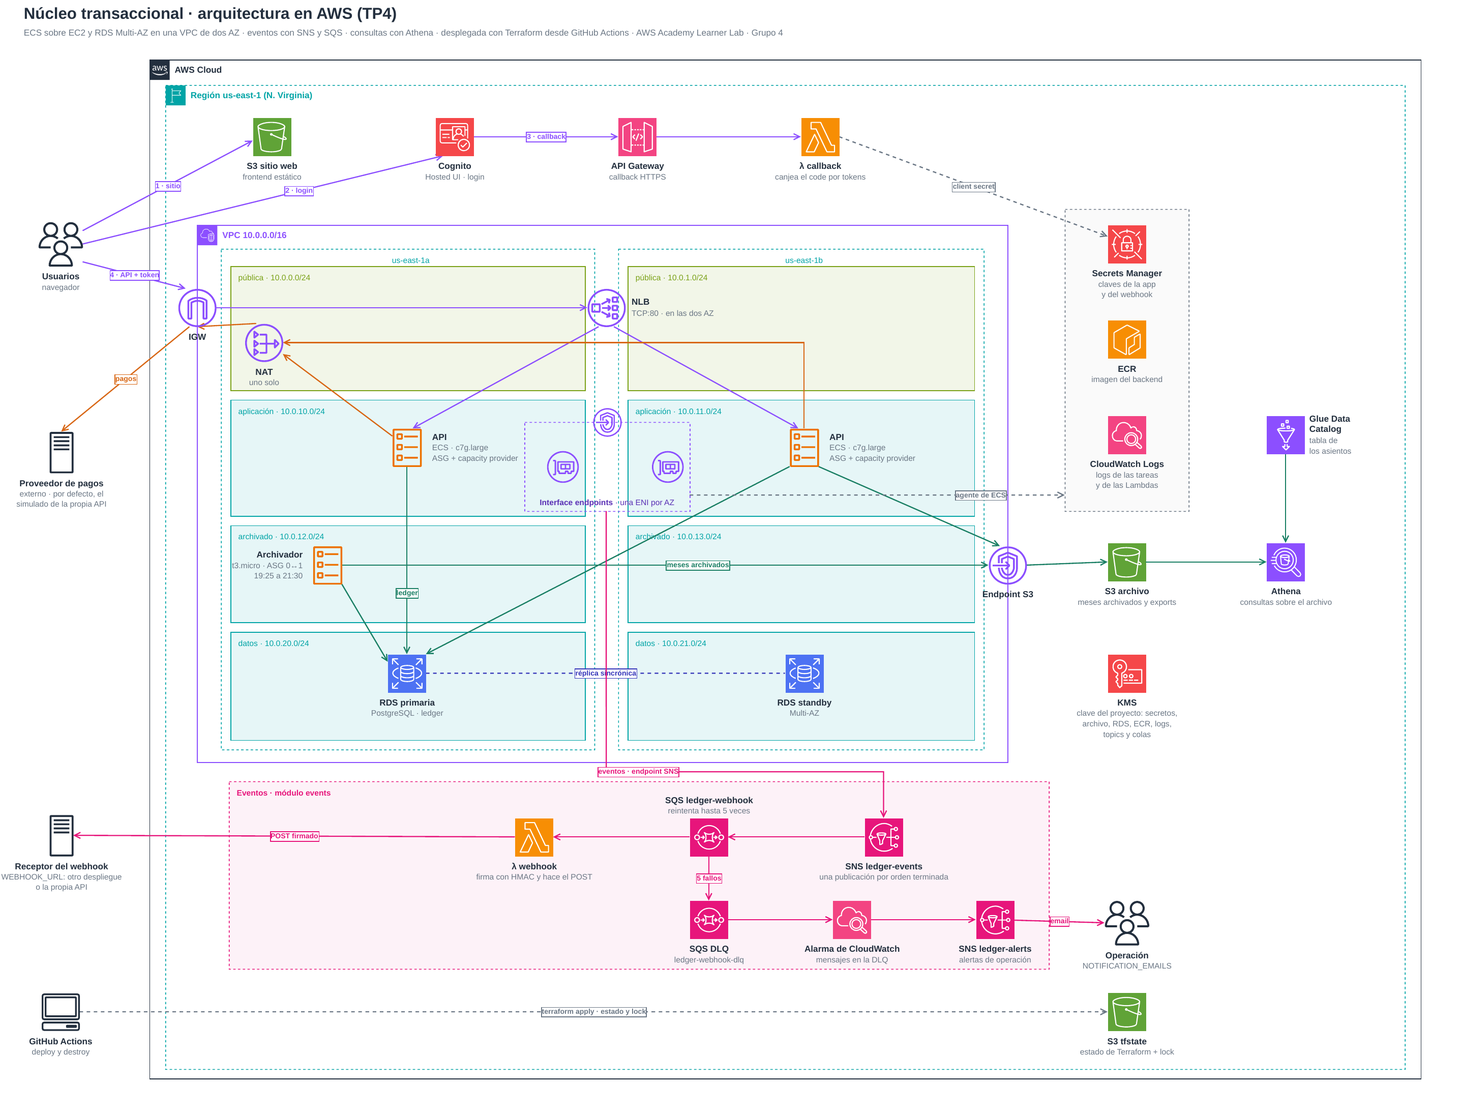
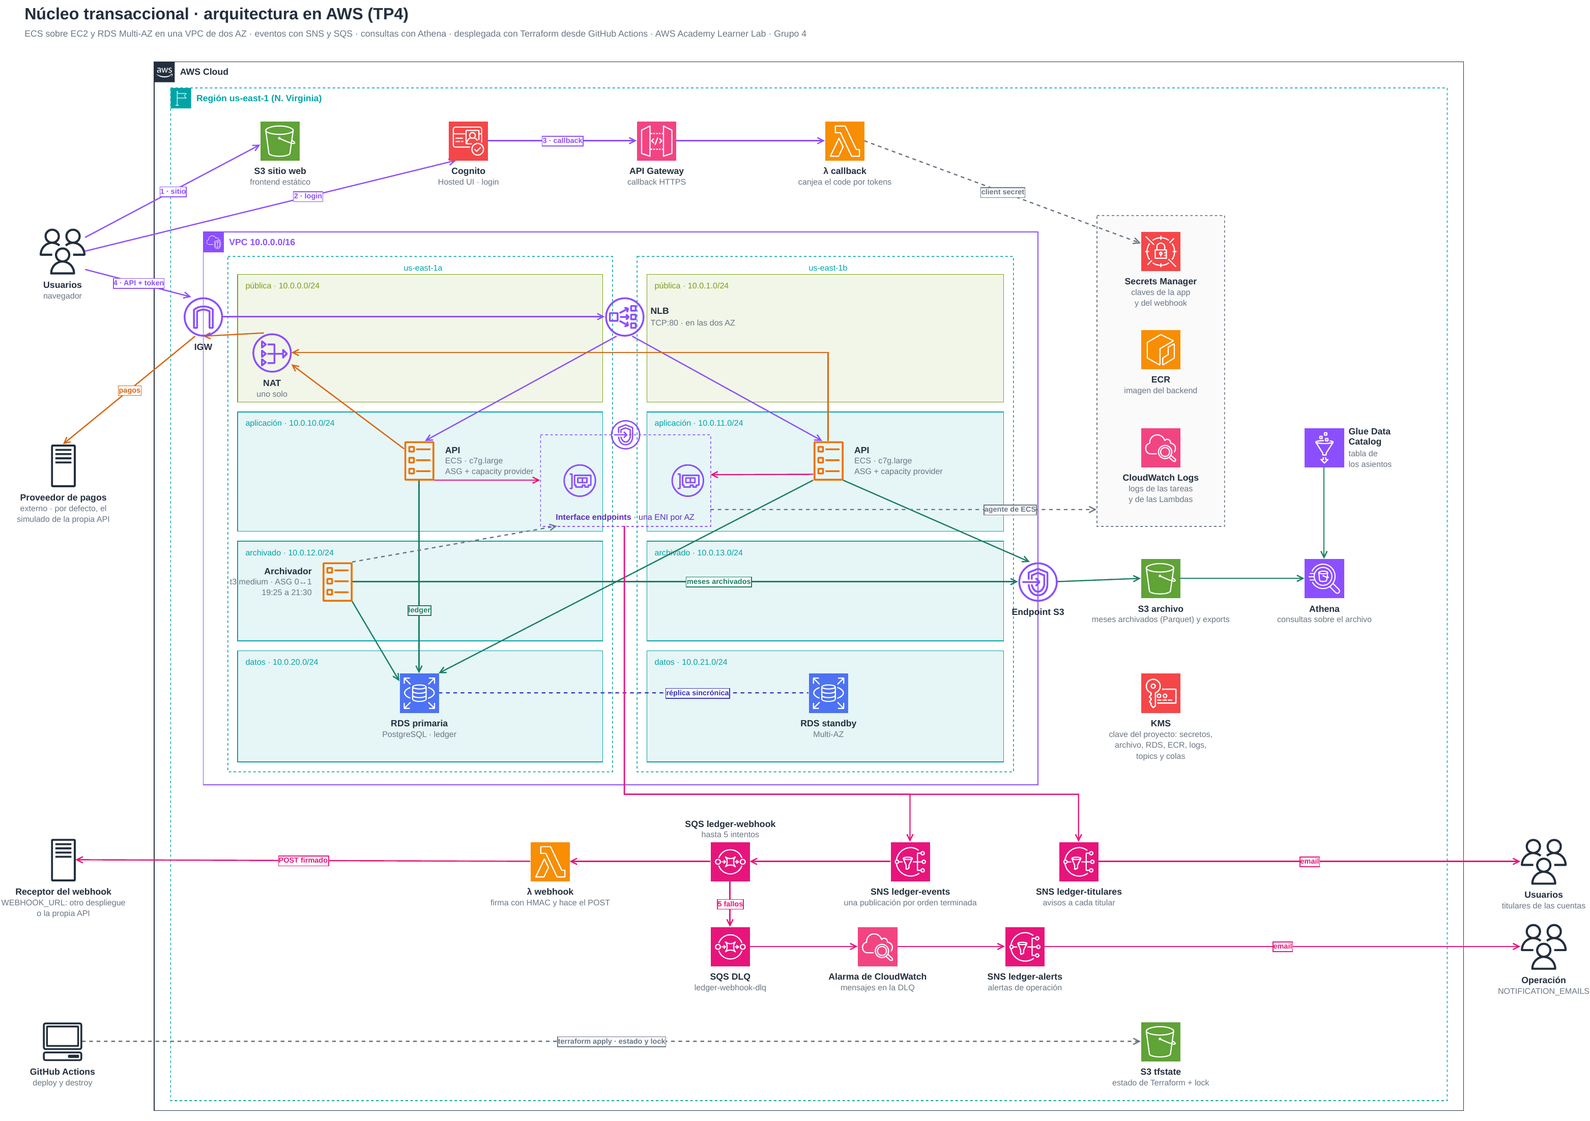
docs: archivo en Parquet, exportaciones y avisos a titulares en el README, ARCHITECTURE y el diagrama

diff --git a/ARCHITECTURE.md b/ARCHITECTURE.md
@@ -22,7 +22,7 @@ Restricciones que guían el diseño:
   GitHub Actions, en cualquier cuenta, sin editar nada. Los nombres que tienen que ser únicos
   llevan el ID de la cuenta.
 - **Costo acotado**: un solo NAT, la API en Graviton (más barato que x86 a igual tamaño) y el
-  archivador en una `t3.micro`, apagada fuera de su ventana.
+  archivador en una `t3.medium`, apagada fuera de su ventana.
 
 ## 2. Red
 
@@ -107,14 +107,15 @@ propio ASG, en sus propias subredes:
 |---|---|---|
 | Subredes (instancias y tareas) | `app`, con NAT | `archive`, sin ruta a Internet |
 | Tareas | 2 a 5, escalan por CPU (60 %) | 0, y 1 durante la ventana de archivado |
-| Tipo de instancia | `c7g.large` (Graviton), dos tareas por instancia | `t3.micro`, una tarea |
+| Tipo de instancia | `c7g.large` (Graviton), dos tareas por instancia | `t3.medium`, una tarea |
 | Instancias | Las que hagan falta para esas tareas, con lugar libre | 0 fuera de la ventana |
 | Tráfico | NLB → IP de cada tarea | Ninguno: sólo sale a la base y a S3 |
 
 Hay **dos niveles de escalado**: el servicio decide cuántas tareas quiere (por CPU o por
 horario) y el capacity provider agrega o apaga instancias para alojarlas. Con red `awsvpc`
 cada tarea tiene su propia ENI y su security group, y la instancia se queda una para ella: una
-`c7g.large` (3 ENIs) aloja dos tareas y una `t3.micro` (2 ENIs), una sola.
+`c7g.large` (3 ENIs) aloja dos tareas, y la `t3.medium` del archivador, una sola: la tarea pide
+3 GB de los 4 que tiene.
 
 El capacity provider de la API apunta a tener ocupado el 80 % de las instancias
 (`target_capacity`), para dejar lugar de reserva: la primera tarea nueva de un scale-out o de un
@@ -135,7 +136,9 @@ recomendada, pero sólo la usan las instancias nuevas.
 corre en `c7g.large`: no es burstable, así que su CPU no depende de créditos; Graviton cuesta
 menos que x86 a igual tamaño, y sus 2 vCPU coinciden con las dos tareas de 1 vCPU que le
 permiten sus ENIs. El archivador es un batch de una tarea, unas horas por día, que nadie
-espera: alcanza una `t3.micro`, cuya CPU en ráfaga cubre justo esa ventana. En una cuenta
+espera, así que va en una instancia burstable: su CPU en ráfaga cubre esa ventana. Es una
+`t3.medium` por la memoria: escribe varias partes de Parquet en paralelo y cada una arma un
+bloque en memoria antes de subirlo (ver [Datos](#4-datos)). En una cuenta
 propia iría en **Spot**, que AWS Academy no habilita. El archivado se puede retomar: cada
 período es una fila de `tareas` que se toma con `FOR UPDATE SKIP LOCKED` y, si la instancia se
 interrumpe, se reintenta, así que una interrupción sólo lo atrasa. Se configuraría con un ASG
@@ -184,7 +187,7 @@ toma la recomendada en cada apply, pero sólo la usan las instancias nuevas. No 
 Un deploy con cambios en el backend sube una imagen nueva y crea una revisión de cada task
 definition. ECS reemplaza las tareas de a tandas: nunca baja de la mitad de las deseadas ni pasa
 del doble. El ASG admite una instancia más que el máximo de tareas, y eso alcanza para ese doble
-en los dos servicios: 6 `c7g.large` alojan 12 tareas de la API y 2 `t3.micro`, dos del
+en los dos servicios: 6 `c7g.large` alojan 12 tareas de la API y 2 `t3.medium`, dos del
 archivador. Por eso la API llega a 5 tareas y no más: su ASG queda en 6, el máximo que AWS
 Academy deja poner en un ASG. Una
 tarea nueva de la API recibe tráfico recién cuando pasa el health check del NLB, y si las
@@ -237,11 +240,57 @@ reintentos.
   derivado y muestra si coinciden.
 
 **Archivado.** El archivador toma un período de la tabla `tareas` (`FOR UPDATE SKIP LOCKED`),
-hace `DETACH PARTITION` de ese mes, lo sube a S3 como
-`transaction-history/periodo=AAAA-MM/asientos.ndjson.gz` (un prefijo estilo Hive, que se
-consulta con Athena) y borra la partición. No hay un `DELETE` masivo que genere WAL ni compita
-por bloqueos con la liquidación. El extracto de un mes archivado lo arma la API leyendo ese
-objeto.
+hace `DETACH PARTITION` de ese mes, lo sube a S3 y borra la partición. No hay un `DELETE` masivo
+que genere WAL ni compita por bloqueos con la liquidación.
+
+El mes se guarda en **Parquet**, partido por rangos de cuentas, bajo un prefijo estilo Hive que
+se consulta con Athena:
+
+```
+transaction-history/periodo=2025-06/parte-000.parquet   cuentas 1 – 41.200
+transaction-history/periodo=2025-06/parte-001.parquet   cuentas 41.201 – 83.950
+```
+
+- **Partes.** El archivador cuenta las filas de cada cuenta y las agrupa hasta
+  `archive_rows_per_part` (5 millones por defecto). Una cuenta nunca queda en dos partes. Las
+  partes se escriben en paralelo, cada una con su conexión, y se suben por multipart a medida
+  que se escriben: la memoria queda acotada a un bloque por parte y no depende del tamaño del
+  mes.
+- **Bloques.** Cada parte se ordena por cuenta y fecha y se divide en bloques (*row groups*)
+  de `archive_rows_per_row_group` filas. Parquet guarda el mínimo y el máximo de cada columna
+  por bloque, así que cada bloque cubre un rango chico de cuentas.
+- **Verificación.** Antes de borrar la partición, cada parte se compara con la base (filas y
+  suma de montos de su rango de cuentas, sacadas del mismo recuento que arma las partes) y se
+  relee su pie desde S3 para confirmar que quedó entera. Como el recuento cubre toda la
+  partición, si coinciden todas las partes coincide el total. Si algo no coincide, la partición
+  queda desenganchada pero intacta y el archivado se reintenta.
+- **Índice.** `archivo_partes` guarda, por mes, cada parte con su rango de cuentas, sus filas
+  y su tamaño, en la misma transacción que marca el mes como archivado.
+
+**Extracto de un mes archivado.** La API busca en `archivo_partes` la parte que tiene la cuenta,
+lee el pie del archivo con un GET por rango (unos KB, con el mínimo y el máximo de cuentas de
+cada bloque y el índice de páginas) y elige el bloque de la cuenta. Dentro del bloque, el índice
+dice qué páginas de `cuenta_id` tienen la cuenta y dónde está cada página de las demás columnas,
+así que la API baja sólo esas páginas, con unos pocos GET por rango en paralelo. Los archivos no
+cambian, así que el pie queda en memoria: un extracto trae de S3 decenas o cientos de KB, sin
+importar cuánto pese el mes ni el bloque. Las respuestas son las mismas que cuando el mes está
+en la base.
+
+**Exportaciones.** `POST /exportaciones` registra la solicitud y responde enseguida; un proceso
+de cada tarea de la API la toma (`FOR UPDATE SKIP LOCKED`, con un plazo de 15 minutos por si la
+tarea muere a mitad de camino), recorre los meses de la base y del archivo y sube el resultado a
+`exports/` en streaming. El resultado es un CSV pensado para abrirse en una planilla: fecha,
+cuenta, operación, contraparte (por alias), monto en pesos y número de orden. Lleva BOM para que
+Excel lo lea como UTF-8, y `;` como separador y coma decimal, que es lo que espera Excel con la
+configuración regional de Argentina. Las fechas van en hora de Argentina, la misma que muestra la
+app. `GET /exportaciones` lista las de la cuenta de la sesión, que es lo que
+muestra la pantalla de exportaciones del frontend. Cuando queda lista,
+`GET /exportaciones/{id}/descarga` comprueba que el archivo siga en S3 (si el lifecycle ya lo
+borró, responde 410) y firma una URL prefirmada que vence a los 15 minutos. El archivo se baja
+directo de S3, sin pasar por la API. Lo que dura días es el archivo
+(`export_retention_days`), no el link: cada descarga firma uno nuevo. Un link largo no conviene
+porque cualquiera que lo tenga descarga el extracto, y además una URL prefirmada deja de valer
+cuando vencen las credenciales temporales del rol que la firmó.
 
 ### Análisis del archivo con Athena
 
@@ -250,16 +299,18 @@ preguntas que cruzan meses y cuentas (si cada mes cuadra, cuánto se movió por 
 completa de una cuenta) se responden con SQL sobre el archivo, en Athena
 ([`modules/analytics`](terraform/modules/analytics)), sin cargar la base que liquida los pagos.
 
-- **Catálogo.** Una base de Glue con la tabla externa `asientos` sobre `transaction-history/`:
-  JSON por línea comprimido con gzip, que es lo que ya escribe el archivador, así que no cambia
-  el código. `creado_en` queda como string RFC 3339 (se convierte en la consulta con
-  `from_iso8601_timestamp`), y el `periodo` del JSON no es columna: es la partición, porque Glue
-  no acepta una columna y una partición con el mismo nombre.
+- **Catálogo.** Una base de Glue con la tabla externa `asientos` sobre `transaction-history/`,
+  en Parquet. Athena lee sólo las columnas de cada consulta, reparte las partes y sus bloques
+  entre varios workers y, con un filtro por `cuenta_id`, saltea los bloques que no la tienen.
+  `creado_en` es un `timestamp` en UTC, y `periodo` no es columna del archivo: es la partición.
 - **Partition projection.** La tabla no registra particiones: Athena las calcula desde
   `history_start` (enero de 2024) hasta el mes actual y arma la ruta de cada una con
   `storage.location.template`. Un mes recién archivado se ve en la próxima consulta, sin
-  `MSCK REPAIR TABLE` y sin crawler, que además necesitaría un rol propio que AWS Academy no deja
-  crear. Un filtro por `periodo` limita lo que se lee a esos meses.
+  `MSCK REPAIR TABLE` y sin crawler. Un crawler sirve para descubrir el esquema y las carpetas de
+  datos que no se controlan; acá los define el propio archivador, así que no hay nada que
+  descubrir, y un crawler sólo sumaría demora (el mes aparece recién cuando vuelve a correr),
+  costo por corrida y el riesgo de inferir mal un tipo. Un filtro por `periodo` limita lo que se
+  lee a esos meses.
 - **Workgroup `ledger`.** Fuerza su configuración sobre la del cliente: los resultados van a
   `athena-results/` del bucket del proyecto, cifrados con SSE-KMS y la clave del proyecto. El
   lifecycle los expira a los 7 días, pero como el bucket está versionado expirar no los borra:
@@ -389,7 +440,7 @@ sumar una suscripción, sin tocar la API.
 
 | Consumidor | Camino | Si falla |
 |---|---|---|
-| Webhook | SNS → SQS `ledger-webhook` → Lambda ([`apps/webhook`](apps/webhook)) → POST firmado | SQS reintenta 5 veces; después va a la DLQ, que dispara una alarma |
+| Webhook | SNS → SQS `ledger-webhook` → Lambda ([`apps/webhook`](apps/webhook)) → POST firmado | SQS lo intenta hasta 5 veces; después va a la DLQ, que dispara una alarma |
 
 - **Por qué lleva cola.** El webhook es un contrato con otro sistema, cuyo endpoint puede estar
   caído un rato: la cola guarda el aviso y lo reintenta, y lo que agota los reintentos queda en
@@ -408,9 +459,17 @@ sumar una suscripción, sin tocar la API.
   Lambda corre fuera de la VPC y hace el POST directo a `webhook_url`. Los topics y las colas
   se cifran con la clave del proyecto, cuya política habilita a SNS (escribe en la cola) y a
   CloudWatch (publica las alarmas en el topic).
-- **Sin mails a los titulares.** Se descartó mandarlos por SES porque AWS Academy no habilita
-  SES: el rol del laboratorio no tiene permisos de SES (`ses:GetAccount` y
-  `ses:VerifyEmailIdentity` dan `AccessDenied`).
+- **Avisos a los titulares.** El topic `ledger-titulares` manda mails a cada titular; hoy, que
+  su exportación está lista, con el link a la pantalla de exportaciones de la app y no al
+  archivo. Al crear la cuenta, el frontend manda el ID token de Cognito (`X-Id-Token`); la API
+  verifica su firma, que sea del mismo usuario y que el email esté verificado, y suscribe ese
+  email con un *filter policy*
+  `{"titular": ["<sub>"]}`. Cada aviso lleva el `sub` del titular como atributo, así que SNS
+  se lo entrega sólo a esa suscripción. Se filtra por el `sub` de Cognito y no por el id de la
+  cuenta porque el `sub` no se reutiliza: un reinicio de datos puede repetir ids de cuenta.
+  El titular tiene que confirmar la suscripción con el mail que manda AWS. Lo natural para
+  mails a usuarios sería SES, pero AWS Academy no lo habilita: el rol del laboratorio no tiene
+  permisos de SES (`ses:GetAccount` y `ses:VerifyEmailIdentity` dan `AccessDenied`).
 
 ## 8. Frontend
 
@@ -512,11 +571,16 @@ nuevo y Destroy no tendría qué destruir.
   lo evitaría, a costa de tocar la transacción de cada operación.
 - **Sin autenticación IAM en RDS**: la API entra con la credencial de Secrets Manager, y
   habilitarla sólo sumaría una vía de login que nadie usa.
-- **El archivo queda en JSON y no en Parquet.** Athena cobra por byte escaneado, y Parquet,
-  columnar y con estadísticas, leería sólo las columnas de cada consulta. Con el volumen de este
-  sistema un mes comprimido pesa poco, y cambiar el formato obligaría a cambiar el archivador y
-  el extracto de la API, que leen el mismo objeto. Si el volumen creciera, un `CREATE TABLE AS
-  SELECT` a Parquet por mes se podría sumar sin tocar lo que ya existe.
+- **Mails a titulares por SNS y no por SES.** SNS admite 200 *filter policies* por topic (10.000
+  por cuenta), así que pasados 200 titulares las suscripciones nuevas fallan y esos titulares
+  quedan sin aviso (la cuenta se crea igual). Cada titular confirma su suscripción, los mails
+  salen de `no-reply@sns.amazonaws.com` en texto plano y traen un link para desuscribirse. En una
+  cuenta propia los avisos irían por SES.
+- **El archivador escala en una sola instancia.** Paraleliza las partes de un mes dentro de una
+  tarea. Si un mes no entrara en la ventana, el paso siguiente es un job de Glue (Spark) que lea
+  la partición por JDBC en paralelo desde una réplica de lectura y escriba estos mismos archivos.
+  Leer de la primaria con muchas conexiones competiría con la liquidación, y el standby
+  Multi-AZ no acepta lecturas.
 - tfsec marca estas decisiones; cada una está ignorada en el código con el motivo al lado.
 
 ## 11. Correcciones de entregas anteriores

diff --git a/README.md b/README.md
@@ -31,9 +31,12 @@ las entregas anteriores, está en [`ARCHITECTURE.md`](ARCHITECTURE.md).
    avisa por mail (topic `ledger-alerts`).
 7. Todos los días, en la ventana de archivado, ECS levanta una tarea del archivador en las
    subredes de `archive`, que no tienen salida a Internet. Mueve a S3 (`transaction-history/`)
-   los meses que superan la retención, por el gateway endpoint.
-8. El extracto de un mes archivado lo arma la API leyendo ese objeto de S3; las exportaciones
-   del histórico también quedan en el bucket (`exports/`).
+   los meses que superan la retención, por el gateway endpoint, en archivos Parquet partidos por
+   rangos de cuentas.
+8. El extracto de un mes archivado lo arma la API leyendo de S3 sólo las páginas del archivo que
+   tienen esa cuenta. Las exportaciones del histórico se arman en segundo plano en `exports/`, se
+   descargan con una URL prefirmada de S3 y el titular recibe un mail cuando están listas
+   (topic `ledger-titulares`).
 9. Los meses archivados se consultan con SQL desde Athena: Glue cataloga `transaction-history/`
    como la tabla `asientos`, y los resultados quedan cifrados en `athena-results/`.
 
@@ -102,6 +105,14 @@ En la pestaña **Variables**, `NOTIFICATION_EMAILS`: emails separados por comas 
 de **AWS Notifications** con el link para confirmar la suscripción. Si queda vacía, no hay
 alertas por mail.
 
+#### Opcional: tamaño de los archivos del archivo
+
+En la pestaña **Variables**, `ARCHIVE_ROWS_PER_PART` (5.000.000 si queda vacía) y
+`ARCHIVE_ROWS_PER_ROW_GROUP` (1.000.000) fijan cuántas filas lleva cada archivo Parquet de un mes
+archivado y cada bloque dentro de él. Con los datos de una demo, un mes entra en un solo archivo
+de un solo bloque; para ver el mes partido en varios archivos y bloques, bajarlas (por ejemplo a
+`8` y `3`) antes del Deploy.
+
 #### Opcional: conectar el despliegue con el de otro equipo
 
 Sin nada de esto, el despliegue funciona solo: los ingresos y egresos van al proveedor simulado
@@ -155,7 +166,10 @@ diagnóstico de *Operación*) muestra una huella de cada una: la de `mock_api_ke
 ser igual a la de `proveedor_api_key` de B, y la de `webhook_secret`, igual en los dos.
 
 Desde una máquina local, los mismos valores van en `terraform/organization/terraform.tfvars`
-o como variables de entorno `TF_VAR_*` antes de `make plan`.
+o como variables de entorno `TF_VAR_*` antes de `make plan`. El resto de las variables (tipos de
+instancia, tamaño de la base, filas por archivo del archivo, días que quedan las exportaciones)
+tienen valores por defecto y se pueden cambiar igual; están, con sus defaults, en
+[`terraform.tfvars.example`](terraform/organization/terraform.tfvars.example).
 
 ### 2. Workflows configurados
 
@@ -322,6 +336,23 @@ Después, entrar por `website_url`:
    Un mes recién archivado aparece en la próxima consulta, sin correr nada más: la tabla
    proyecta sus particiones (ver [Análisis del archivo](ARCHITECTURE.md#análisis-del-archivo-con-athena)).
 
+   Para ver el archivo partido en varios Parquet con pocos datos, bajar `ARCHIVE_ROWS_PER_PART`
+   y `ARCHIVE_ROWS_PER_ROW_GROUP` (ver [Configurar secrets](#1-configurar-secrets)) antes del
+   Deploy. Cada parte queda en `transaction-history/periodo=AAAA-MM/parte-NNN.parquet`.
+
+7. **Extractos y exportaciones del archivo.** Con un mes ya archivado, *Ver extracto* de ese mes
+   en *Operación* muestra `Origen: archivo`: la API leyó de S3 sólo las páginas de esa cuenta.
+   Para exportar no hace falta el modo operación: en *Actividad*, **Exportar movimientos** abre
+   la pantalla de exportaciones del usuario. **Pedir exportación** (desde/hasta) la registra y la
+   arma en segundo plano; la lista de *Tus exportaciones* se actualiza sola hasta que queda
+   `Lista` y entonces muestra **Descargar**, que pide una URL prefirmada nueva (vence a los 15
+   minutos) y baja directo de S3 un CSV que se abre en Excel o Google Sheets.
+
+   **Aviso por mail.** Al crear la cuenta, la API suscribe el email del usuario de Cognito al
+   topic `ledger-titulares`. AWS manda un mail *AWS Notification - Subscription Confirmation*:
+   hay que confirmarlo, y desde ahí cada exportación lista llega por mail con un link a esa
+   pantalla. Si la sesión no está abierta, el link pasa por el login y vuelve a ella.
+
 ### 5. Destruir al terminar
 
 **Actions → Destroy → Run workflow** → escribir `destroy`.
@@ -431,8 +462,9 @@ Bucket privado del proyecto: el archivo del ledger (`transaction-history/`), las
 KMS del proyecto (SSE-KMS con bucket key), con bloqueo de acceso público y una política que
 rechaza cualquier pedido que no venga por HTTPS. El lifecycle borra las versiones reemplazadas
 a los 30 días, pasa el archivo a STANDARD_IA a los 30 días y a GLACIER Instant Retrieval al año
-(Athena no lee GLACIER Flexible Retrieval), y expira los resultados de Athena a los 7 días
-(con el versionado, se borran del todo 30 días después).
+(Athena no lee GLACIER Flexible Retrieval), expira los resultados de Athena a los 7 días y las
+exportaciones a los `export_retention_days` (con el versionado, se borran del todo 30 días
+después), y aborta las subidas multipart que quedan cortadas, para no pagar sus partes.
 
 El bucket lo crea `make apply` con la AWS CLI y el módulo lo configura (ver
 [Buckets de S3](#buckets-de-s3-los-crea-la-aws-cli)).
@@ -478,10 +510,11 @@ access log JSON por request a su propio log group.
 
 Topic SNS `ledger-events`, donde la API publica cada orden terminada, y una cola SQS con DLQ
 suscripta a él, que lee la Lambda del webhook ([`apps/webhook`](apps/webhook)). Un topic de
-alertas con suscripciones de email recibe la alarma de la DLQ (ver
-[Eventos y notificaciones](ARCHITECTURE.md#7-eventos-y-notificaciones)).
+alertas con suscripciones de email recibe la alarma de la DLQ, y el topic `ledger-titulares`
+manda los avisos por mail a cada titular, con una suscripción por titular que filtra por su
+`sub` de Cognito (ver [Eventos y notificaciones](ARCHITECTURE.md#7-eventos-y-notificaciones)).
 
-**Recursos:** `aws_sns_topic.events`, `aws_sns_topic.alerts`, `aws_sqs_queue.webhook` y
+**Recursos:** `aws_sns_topic.events`, `aws_sns_topic.titulares`, `aws_sns_topic.alerts`, `aws_sqs_queue.webhook` y
 `webhook_dlq`, `aws_lambda_function.this` (webhook), `aws_lambda_event_source_mapping.webhook`,
 `aws_cloudwatch_metric_alarm.webhook_dlq` y las suscripciones.
 
@@ -490,8 +523,8 @@ alertas con suscripciones de email recibe la alarma de la DLQ (ver
 ### [`modules/analytics`](terraform/modules/analytics)
 
 Consultas SQL sobre el archivo, sin tocar RDS. Una base del catálogo de Glue con la tabla
-externa `asientos` sobre `transaction-history/` (JSON comprimido, particionada por `periodo`
-con *partition projection*), un workgroup de Athena que fuerza dónde y cómo se guardan los
+externa `asientos` sobre `transaction-history/` (Parquet, particionada por `periodo` con
+*partition projection*), un workgroup de Athena que fuerza dónde y cómo se guardan los
 resultados (en `athena-results/`, SSE-KMS con la clave del proyecto) y pone un tope de bytes
 escaneados por consulta, y cuatro consultas guardadas (ver
 [Análisis del archivo](ARCHITECTURE.md#análisis-del-archivo-con-athena)).
@@ -562,7 +595,7 @@ sobre `local.services`; ver [Cómputo](ARCHITECTURE.md#3-cómputo).
 | `substr` | `organization/locals.tf` | Saca la letra de la AZ para el nombre de la subred (`ledger-app-a`) |
 | `floor`, `sum`, `values` | `organization/locals.tf` | Reparte `db_max_connections` entre las tareas: el tope de cada una va en la `DB_URL` (`pool_max_conns`) |
 | `coalesce` | `organization/locals.tf` | Usa la clave o la URL que se pasó por variable y, si está vacía, la generada o la propia |
-| `tostring` | `organization/locals.tf` | El puerto de la API como variable de entorno |
+| `tostring` | `organization/locals.tf` | El puerto de la API y las filas por parte y por bloque del archivador como variables de entorno, que en la task definition son strings |
 | `concat` | `organization/network.tf` | Asocia el endpoint de S3 a las tablas de app y archivado |
 | `replace` | `organization/network.tf`, `modules/security_groups/main.tf`, `modules/database/main.tf`, `modules/analytics/main.tf` | Arma nombres: el `Name` de cada endpoint y de cada regla (`app_in_nlb` → `ledger-app-in-nlb`), y el de la base de RDS y la de Glue sin guiones |
 | `try` | `modules/security_groups/main.tf` | Usa el SG de destino sólo si el `peer` de la regla es otro grupo |
@@ -610,8 +643,10 @@ sobre `local.services`; ver [Cómputo](ARCHITECTURE.md#3-cómputo).
 
 Los bloques `validation` comprueban los valores de entrada: limitan `archive_schedule` a 0 o 1
 tarea, `log_retention_days` a los valores que admite CloudWatch, `target_capacity` al rango de
-1 a 100 y, en Athena, el formato de `history_start`, los prefijos y el tope de bytes escaneados
-(Athena no acepta menos de 10 MiB). Están en `organization/variables.tf`,
+1 a 100, que el bloque de un Parquet del archivo no tenga más filas que la parte
+(`archive_rows_per_row_group` ≤ `archive_rows_per_part`, una validación que cruza dos variables)
+y, en Athena, el formato de `history_start`, los prefijos y el tope de bytes escaneados (Athena
+no acepta menos de 10 MiB). Están en `organization/variables.tf`,
 `modules/auth/variables.tf`, `modules/service/variables.tf`, `modules/capacity/variables.tf` y
 `modules/analytics/variables.tf`, y un valor inválido falla en el `plan`, no a mitad del apply.
 
